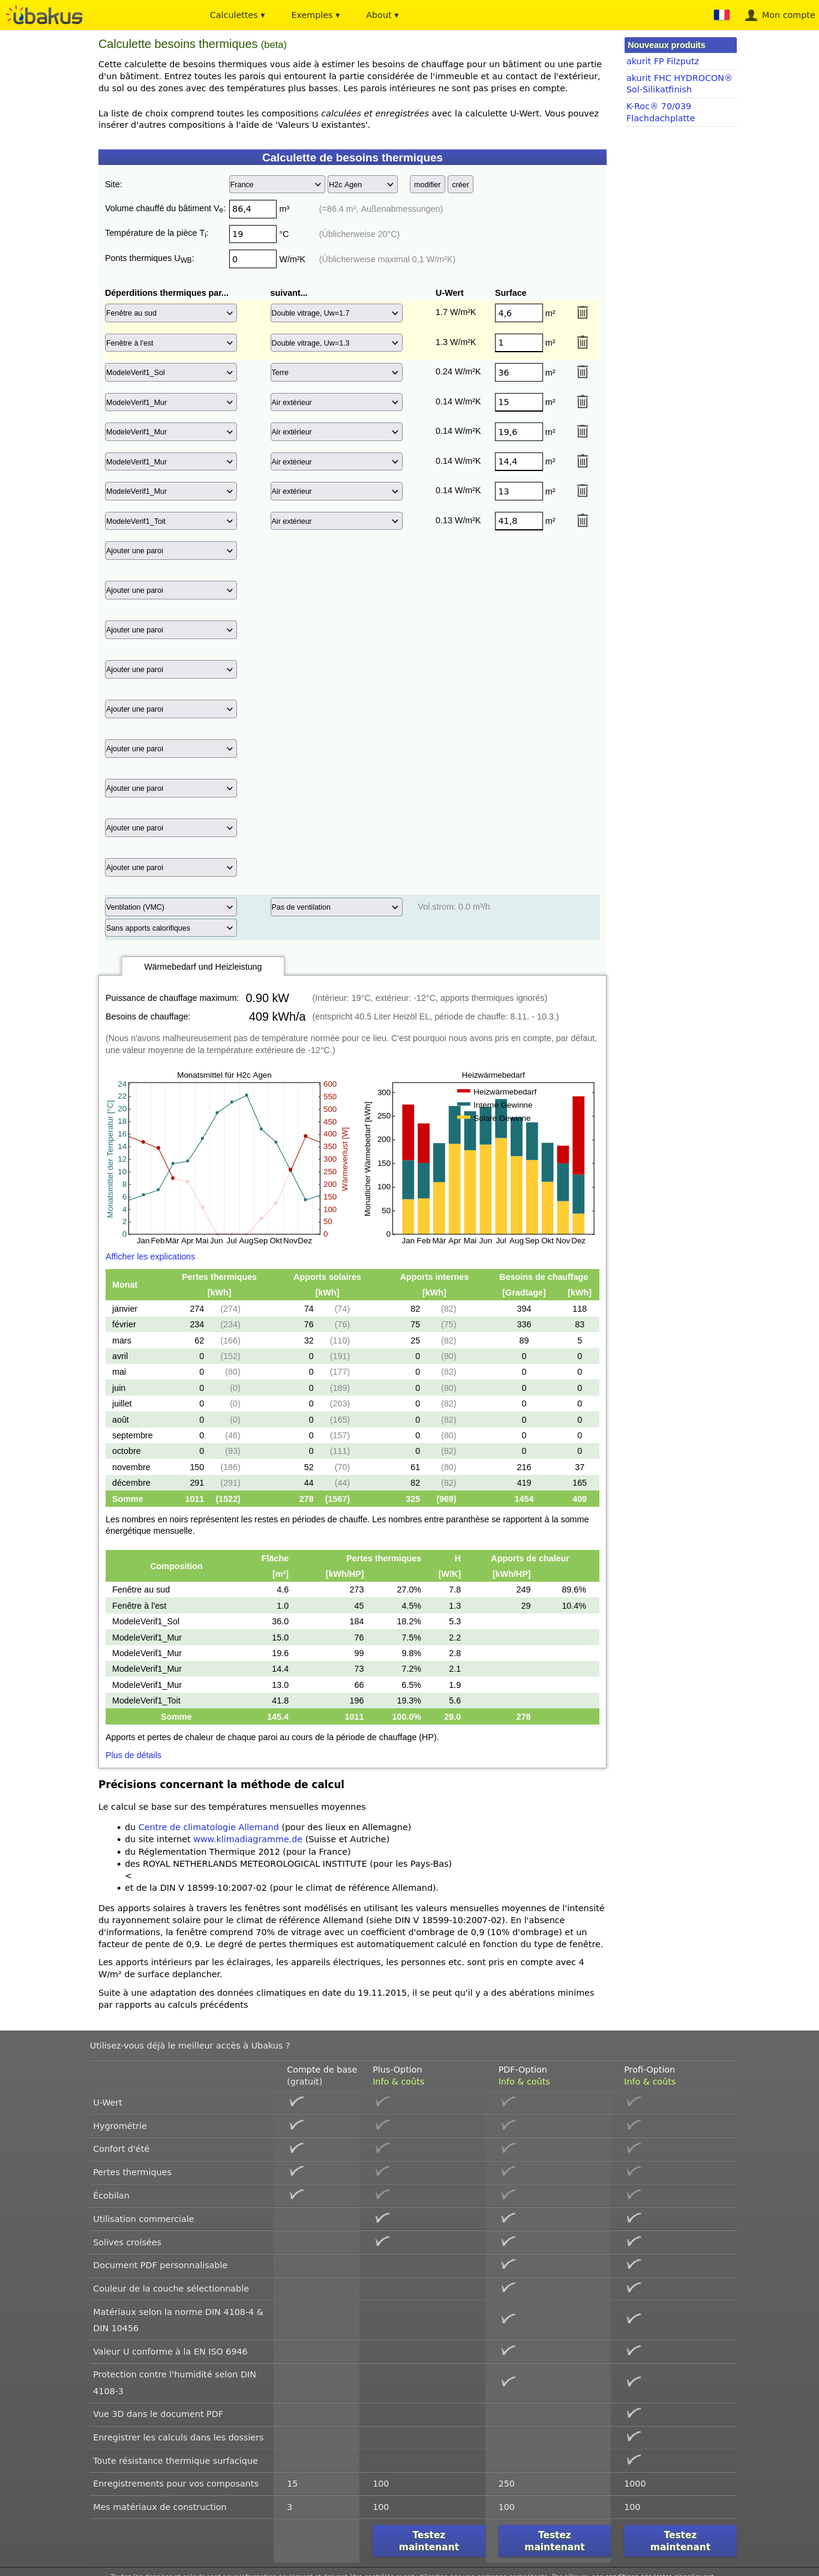
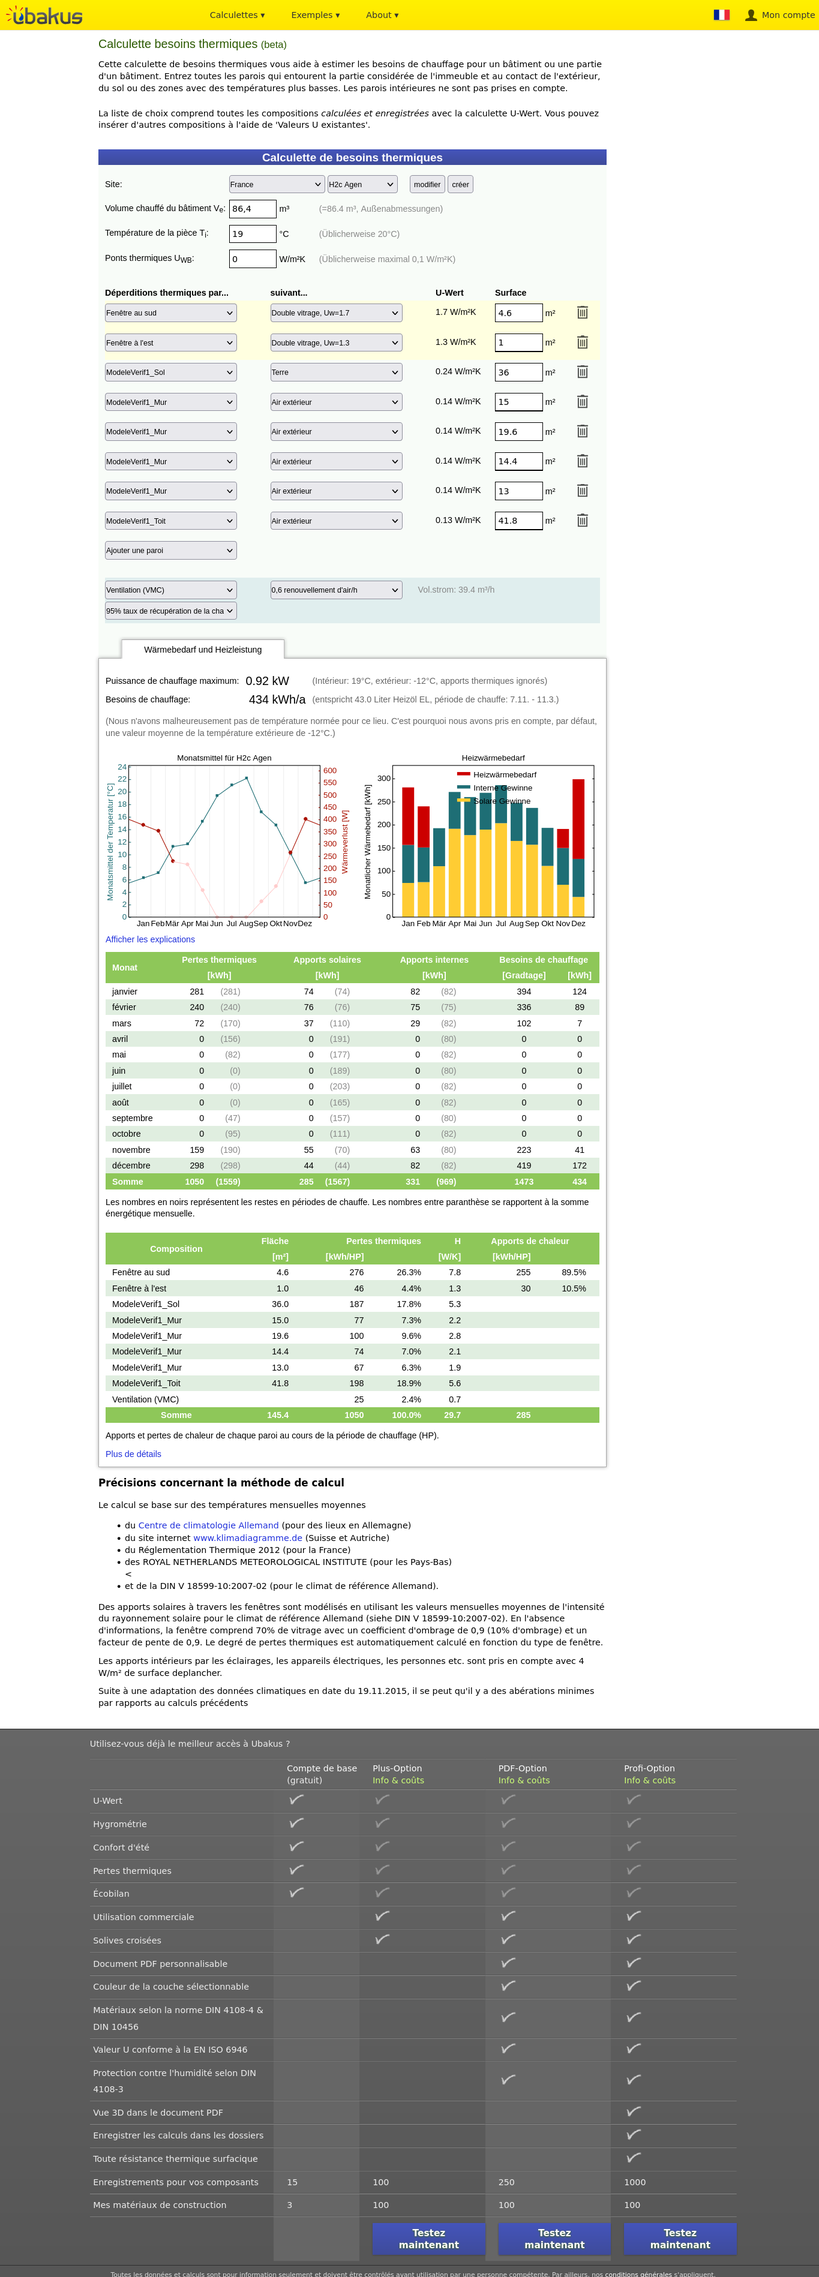
#16 Vérification - mise à jour Ubakus VMC double flux

diff --git a/doc/Modèle de vérification/2/Resultat.md b/doc/Modèle de vérification/2/Resultat.md
@@ -5,7 +5,7 @@
 Entre choisirsonpdm et 
 
 * La feuille de calcul de Damien : ?
-* Ubakus : -4%
+* Ubakus : -2,75%
 
 ## choisir.poeledemasse.org
 
@@ -100,9 +100,9 @@ Aménagement pour ce test :
 
 Comparatif : 
 
-* Avec Ubakus : 64 kW
-* Avec choisirsonpdm : 66,07 kW 
+* Avec Ubakus : 64.1 kW
+* Avec choisirsonpdm : 65.91 kW 
 
-Donc l'équivalent c'est plus : https://choisir.poeledemasse.org/#level=3&transparent=&livingspace=240&livingheight=5.4&livingvolume=1296&livingvolume_auto=&wastagesurface=&temp_indor=19&g=0.3&ubat_global=0.4&venti_global=0.2&nav-tab-record=&altitude=100&zone=a&lat=43.293900&lng=5.375652&temp_base=-12&temp_base_auto=&temp_base_years_archive=10&building-title=&wall-id=6&wall-name-1=Sol&wall-type-1=6275288188_10.50&wall-rsi-1=0.13&wall-rse-1=0&wall-surface-1=240&wall-r-1=10.50&wall-name-2=Mur%20Sud&wall-type-2=5322603544_17.90&wall-rsi-2=0.13&wall-rse-2=0.04&wall-surface-2=37.5&wall-r-2=17.90&wall-name-2-window-1=Fen%C3%AAtre%20Sud&wall-type-2-window-1=1.7&wall-surface-2-window-1=37.5&wall-name-3=Mur%20Nord&wall-type-3=5322603544_17.90&wall-rsi-3=0.13&wall-rse-3=0.04&wall-surface-3=37.5&wall-r-3=17.90&wall-name-4=Mur%20Est&wall-type-4=5322603544_17.90&wall-rsi-4=0.13&wall-rse-4=0.04&wall-surface-4=215.4&wall-r-4=17.90&wall-name-4-window-1=Fen%C3%AAtre%20Est&wall-type-4-window-1=1.7&wall-surface-4-window-1=107.7&wall-name-5=Mur%20Ouest&wall-type-5=5322603544_17.90&wall-rsi-5=0.13&wall-rse-5=0.04&wall-surface-5=215.4&wall-r-5=17.90&wall-name-6=Toiture&wall-type-6=9224610753_0.00200&wall-rsi-6=0.1&wall-rse-6=0.04&wall-surface-6=277.2&wall-r-6=0.00200&wall-name-6-window-1=V%C3%A9lux&wall-type-6-window-1=1.7&wall-surface-6-window-1=22.2&wall-custom-title=Mod%C3%A8leV%C3%A9rification2_Toit&submit_input=1&localWall-3=%7B%22title%22%3A%22Mod%C3%A8leV%C3%A9rification2_Sol%22%2C%22r%22%3A%2210.50%22%2C%22layer%22%3A%5B%7B%22idu%22%3A%2239%22%2C%22material%22%3A%22Polyur%C3%A9thane%22%2C%22lambda%22%3A%220.03%22%2C%22size%22%3A%2220%22%7D%2C%7B%22idu%22%3A%2212%22%2C%22material%22%3A%22Misapor%22%2C%22lambda%22%3A%220.08%22%2C%22size%22%3A%2230%22%7D%5D%2C%22idu%22%3A6275288188%7D&localWall-4=%7B%22title%22%3A%22Mod%C3%A8leV%C3%A9rification2_Mur%22%2C%22r%22%3A%2217.90%22%2C%22layer%22%3A%5B%7B%22idu%22%3A%2230%22%2C%22material%22%3A%22Ouate%20de%20cellulose%20panneaux%22%2C%22lambda%22%3A%220.039%22%2C%22size%22%3A%2270%22%7D%5D%2C%22idu%22%3A5322603544%7D&localWall-4=%7B%22title%22%3A%22Mod%C3%A8leV%C3%A9rification2_Mur%22%2C%22r%22%3A%2217.90%22%2C%22layer%22%3A%5B%7B%22idu%22%3A%2230%22%2C%22material%22%3A%22Ouate%20de%20cellulose%20panneaux%22%2C%22lambda%22%3A%220.039%22%2C%22size%22%3A%2270%22%7D%5D%2C%22idu%22%3A5322603544%7D&localWall-4=%7B%22title%22%3A%22Mod%C3%A8leV%C3%A9rification2_Mur%22%2C%22r%22%3A%2217.90%22%2C%22layer%22%3A%5B%7B%22idu%22%3A%2230%22%2C%22material%22%3A%22Ouate%20de%20cellulose%20panneaux%22%2C%22lambda%22%3A%220.039%22%2C%22size%22%3A%2270%22%7D%5D%2C%22idu%22%3A5322603544%7D&localWall-4=%7B%22title%22%3A%22Mod%C3%A8leV%C3%A9rification2_Mur%22%2C%22r%22%3A%2217.90%22%2C%22layer%22%3A%5B%7B%22idu%22%3A%2230%22%2C%22material%22%3A%22Ouate%20de%20cellulose%20panneaux%22%2C%22lambda%22%3A%220.039%22%2C%22size%22%3A%2270%22%7D%5D%2C%22idu%22%3A5322603544%7D&localWall-5=%7B%22title%22%3A%22Mod%C3%A8leV%C3%A9rification2_Toit%22%2C%22r%22%3A%220.00200%22%2C%22layer%22%3A%5B%7B%22idu%22%3A%221%22%2C%22material%22%3A%22Ardoise%22%2C%22lambda%22%3A%222%22%2C%22size%22%3A%220.4%22%7D%5D%2C%22idu%22%3A9224610753%7D
+Donc l'équivalent c'est plus : https://choisir.poeledemasse.org/#level=3&transparent=&livingspace=240&livingheight=5.4&livingvolume=1296&livingvolume_auto=&wastagesurface=&temp_indor=19&g=0.3&ubat_global=0.4&venti_global=0.08&nav-tab-record=&altitude=100&zone=a&lat=43.293900&lng=5.375652&temp_base=-12&temp_base_auto=&temp_base_years_archive=10&building-title=&wall-id=6&wall-name-1=Sol&wall-type-1=6275288188_10.50&wall-rsi-1=0.13&wall-rse-1=0&wall-surface-1=240&wall-r-1=10.50&wall-name-2=Mur%20Sud&wall-type-2=5322603544_17.90&wall-rsi-2=0.13&wall-rse-2=0.04&wall-surface-2=37.5&wall-r-2=17.90&wall-name-2-window-1=Fen%C3%AAtre%20Sud&wall-type-2-window-1=1.7&wall-surface-2-window-1=37.5&wall-name-3=Mur%20Nord&wall-type-3=5322603544_17.90&wall-rsi-3=0.13&wall-rse-3=0.04&wall-surface-3=37.5&wall-r-3=17.90&wall-name-4=Mur%20Est&wall-type-4=5322603544_17.90&wall-rsi-4=0.13&wall-rse-4=0.04&wall-surface-4=215.4&wall-r-4=17.90&wall-name-4-window-1=Fen%C3%AAtre%20Est&wall-type-4-window-1=1.7&wall-surface-4-window-1=107.7&wall-name-5=Mur%20Ouest&wall-type-5=5322603544_17.90&wall-rsi-5=0.13&wall-rse-5=0.04&wall-surface-5=215.4&wall-r-5=17.90&wall-name-6=Toiture&wall-type-6=9224610753_0.00200&wall-rsi-6=0.1&wall-rse-6=0.04&wall-surface-6=277.2&wall-r-6=0.00200&wall-name-6-window-1=V%C3%A9lux&wall-type-6-window-1=1.7&wall-surface-6-window-1=22.2&wall-custom-title=Mod%C3%A8leV%C3%A9rification2_Toit&submit_input=1&localWall-3=%7B%22title%22%3A%22Mod%C3%A8leV%C3%A9rification2_Sol%22%2C%22r%22%3A%2210.50%22%2C%22layer%22%3A%5B%7B%22idu%22%3A%2239%22%2C%22material%22%3A%22Polyur%C3%A9thane%22%2C%22lambda%22%3A%220.03%22%2C%22size%22%3A%2220%22%7D%2C%7B%22idu%22%3A%2212%22%2C%22material%22%3A%22Misapor%22%2C%22lambda%22%3A%220.08%22%2C%22size%22%3A%2230%22%7D%5D%2C%22idu%22%3A6275288188%7D&localWall-4=%7B%22title%22%3A%22Mod%C3%A8leV%C3%A9rification2_Mur%22%2C%22r%22%3A%2217.90%22%2C%22layer%22%3A%5B%7B%22idu%22%3A%2230%22%2C%22material%22%3A%22Ouate%20de%20cellulose%20panneaux%22%2C%22lambda%22%3A%220.039%22%2C%22size%22%3A%2270%22%7D%5D%2C%22idu%22%3A5322603544%7D&localWall-4=%7B%22title%22%3A%22Mod%C3%A8leV%C3%A9rification2_Mur%22%2C%22r%22%3A%2217.90%22%2C%22layer%22%3A%5B%7B%22idu%22%3A%2230%22%2C%22material%22%3A%22Ouate%20de%20cellulose%20panneaux%22%2C%22lambda%22%3A%220.039%22%2C%22size%22%3A%2270%22%7D%5D%2C%22idu%22%3A5322603544%7D&localWall-4=%7B%22title%22%3A%22Mod%C3%A8leV%C3%A9rification2_Mur%22%2C%22r%22%3A%2217.90%22%2C%22layer%22%3A%5B%7B%22idu%22%3A%2230%22%2C%22material%22%3A%22Ouate%20de%20cellulose%20panneaux%22%2C%22lambda%22%3A%220.039%22%2C%22size%22%3A%2270%22%7D%5D%2C%22idu%22%3A5322603544%7D&localWall-4=%7B%22title%22%3A%22Mod%C3%A8leV%C3%A9rification2_Mur%22%2C%22r%22%3A%2217.90%22%2C%22layer%22%3A%5B%7B%22idu%22%3A%2230%22%2C%22material%22%3A%22Ouate%20de%20cellulose%20panneaux%22%2C%22lambda%22%3A%220.039%22%2C%22size%22%3A%2270%22%7D%5D%2C%22idu%22%3A5322603544%7D&localWall-5=%7B%22title%22%3A%22Mod%C3%A8leV%C3%A9rification2_Toit%22%2C%22r%22%3A%220.00200%22%2C%22layer%22%3A%5B%7B%22idu%22%3A%221%22%2C%22material%22%3A%22Ardoise%22%2C%22lambda%22%3A%222%22%2C%22size%22%3A%220.4%22%7D%5D%2C%22idu%22%3A9224610753%7D
 
 ![](Resultat.assets/Screenshot 2024-07-12 at 14-07-48 ubakus.de U-Wert Rechner.png)

diff --git a/doc/Modèle de vérification/1/Resultat.md b/doc/Modèle de vérification/1/Resultat.md
@@ -5,7 +5,7 @@
 Entre choisirsonpdm et 
 
 * La feuille de calcul de Damien : +3%
-* Ubakus : -14%
+* Ubakus : -11,54 %
 
 ## choisir.poeledemasse.org
 
@@ -30,13 +30,13 @@ https://www.ubakus.de/fr/berechnung/waermebedarf/
 Aménagement pour ce test :
 
 * -12 température de Rennes (pas de possibilité de modifier sur ubakus)
-* Pas de VMC (pas trouvé comment faire double flux)
+* VMC 95%, Renouvellement 0.6
 
 Comparatif : 
 
-* Avec Ubakus : 0.9 kW
-* Avec choisirsonpdm : 1.05 kW 
+* Avec Ubakus : 0.92 kW
+* Avec choisirsonpdm : 1.04 kW 
 
-Donc l'équivalent c'est plus : https://choisir.poeledemasse.org/#level=3&transparent=&livingspace=&livingheight=&livingvolume=86&livingvolume_auto=&wastagesurface=&temp_indor=19&g=0.3&ubat_global=0.4&venti_global=0.2&nav-tab-record=&altitude=100&zone=a&lat=47.970256&lng=-1.96398&temp_base=-12&temp_base_auto=&temp_base_years_archive=10&building-title=Mod%C3%A8le%20de%20v%C3%A9rification%20N%C2%B01&wall-id=8&wall-name-1=Sol&wall-type-1=2666122145_3.80&wall-rsi-1=0.13&wall-rse-1=0&wall-surface-1=36&wall-r-1=3.80&wall-name-3=Mur%20Sud&wall-type-3=2931733730_6.70&wall-rsi-3=0.13&wall-rse-3=0.04&wall-surface-3=19.6&wall-r-3=6.70&wall-name-3-window-1=Baie%20vitr%C3%A9&wall-type-3-window-1=1.7&wall-surface-3-window-1=4.6&wall-name-4=Mur%20Nord&wall-type-4=2931733730_6.70&wall-rsi-4=0.13&wall-rse-4=0.04&wall-surface-4=19.6&wall-r-4=6.70&wall-name-5=Mur%20Est&wall-type-5=2931733730_6.70&wall-rsi-5=0.13&wall-rse-5=0.04&wall-surface-5=14.4&wall-r-5=6.70&wall-name-6=Mur%20Ouest&wall-type-6=2931733730_6.70&wall-rsi-6=0.13&wall-rse-6=0.04&wall-surface-6=14.4&wall-r-6=6.70&wall-name-6-window-1=Fen%C3%AAtre%20Ouest&wall-type-6-window-1=1.7&wall-surface-6-window-1=1&wall-name-8=Toit&wall-type-8=8219786516_7.30&wall-rsi-8=0.1&wall-rse-8=0.04&wall-surface-8=41.8&wall-r-8=7.30&wall-custom-title=Mod%C3%A8leV%C3%A9rification1_Mur&submit_input=1&localWall-0=%7B%22title%22%3A%22Mod%C3%A8leV%C3%A9rification1_Sol%22%2C%22r%22%3A%223.80%22%2C%22layer%22%3A%5B%7B%22idu%22%3A%2212%22%2C%22material%22%3A%22Misapor%22%2C%22lambda%22%3A%220.08%22%2C%22size%22%3A%2230%22%7D%5D%2C%22idu%22%3A2666122145%7D&localWall-1=%7B%22title%22%3A%22Mod%C3%A8leV%C3%A9rification1_Mur%22%2C%22r%22%3A%226.70%22%2C%22layer%22%3A%5B%7B%22idu%22%3A%2224%22%2C%22material%22%3A%22Paille%20%E2%80%93%20Botte%22%2C%22lambda%22%3A%220.052%22%2C%22size%22%3A%2235%22%7D%5D%2C%22idu%22%3A2931733730%7D&localWall-1=%7B%22title%22%3A%22Mod%C3%A8leV%C3%A9rification1_Mur%22%2C%22r%22%3A%226.70%22%2C%22layer%22%3A%5B%7B%22idu%22%3A%2224%22%2C%22material%22%3A%22Paille%20%E2%80%93%20Botte%22%2C%22lambda%22%3A%220.052%22%2C%22size%22%3A%2235%22%7D%5D%2C%22idu%22%3A2931733730%7D&localWall-1=%7B%22title%22%3A%22Mod%C3%A8leV%C3%A9rification1_Mur%22%2C%22r%22%3A%226.70%22%2C%22layer%22%3A%5B%7B%22idu%22%3A%2224%22%2C%22material%22%3A%22Paille%20%E2%80%93%20Botte%22%2C%22lambda%22%3A%220.052%22%2C%22size%22%3A%2235%22%7D%5D%2C%22idu%22%3A2931733730%7D&localWall-1=%7B%22title%22%3A%22Mod%C3%A8leV%C3%A9rification1_Mur%22%2C%22r%22%3A%226.70%22%2C%22layer%22%3A%5B%7B%22idu%22%3A%2224%22%2C%22material%22%3A%22Paille%20%E2%80%93%20Botte%22%2C%22lambda%22%3A%220.052%22%2C%22size%22%3A%2235%22%7D%5D%2C%22idu%22%3A2931733730%7D&localWall-2=%7B%22title%22%3A%22Mod%C3%A8leV%C3%A9rification1_Toit%22%2C%22r%22%3A%227.30%22%2C%22layer%22%3A%5B%7B%22idu%22%3A%2229%22%2C%22material%22%3A%22Ouate%20de%20cellulose%20souffl%C3%A9e%22%2C%22lambda%22%3A%220.041%22%2C%22size%22%3A%2230%22%7D%5D%2C%22idu%22%3A8219786516%7D
+Donc l'équivalent c'est plus : https://choisir.poeledemasse.org/#level=3&transparent=&livingspace=&livingheight=&livingvolume=86&livingvolume_auto=&wastagesurface=&temp_indor=19&g=0.3&ubat_global=0.4&venti_global=0.08&nav-tab-record=&altitude=100&zone=a&lat=47.970256&lng=-1.96398&temp_base=-12&temp_base_auto=&temp_base_years_archive=10&building-title=Mod%C3%A8le%20de%20v%C3%A9rification%20N%C2%B01&wall-id=8&wall-name-1=Sol&wall-type-1=2666122145_3.80&wall-rsi-1=0.13&wall-rse-1=0&wall-surface-1=36&wall-r-1=3.80&wall-name-3=Mur%20Sud&wall-type-3=2931733730_6.70&wall-rsi-3=0.13&wall-rse-3=0.04&wall-surface-3=19.6&wall-r-3=6.70&wall-name-3-window-1=Baie%20vitr%C3%A9&wall-type-3-window-1=1.7&wall-surface-3-window-1=4.6&wall-name-4=Mur%20Nord&wall-type-4=2931733730_6.70&wall-rsi-4=0.13&wall-rse-4=0.04&wall-surface-4=19.6&wall-r-4=6.70&wall-name-5=Mur%20Est&wall-type-5=2931733730_6.70&wall-rsi-5=0.13&wall-rse-5=0.04&wall-surface-5=14.4&wall-r-5=6.70&wall-name-6=Mur%20Ouest&wall-type-6=2931733730_6.70&wall-rsi-6=0.13&wall-rse-6=0.04&wall-surface-6=14.4&wall-r-6=6.70&wall-name-6-window-1=Fen%C3%AAtre%20Ouest&wall-type-6-window-1=1.7&wall-surface-6-window-1=1&wall-name-8=Toit&wall-type-8=8219786516_7.30&wall-rsi-8=0.1&wall-rse-8=0.04&wall-surface-8=41.8&wall-r-8=7.30&wall-custom-title=Mod%C3%A8leV%C3%A9rification1_Mur&submit_input=1&localWall-0=%7B%22title%22%3A%22Mod%C3%A8leV%C3%A9rification1_Sol%22%2C%22r%22%3A%223.80%22%2C%22layer%22%3A%5B%7B%22idu%22%3A%2212%22%2C%22material%22%3A%22Misapor%22%2C%22lambda%22%3A%220.08%22%2C%22size%22%3A%2230%22%7D%5D%2C%22idu%22%3A2666122145%7D&localWall-1=%7B%22title%22%3A%22Mod%C3%A8leV%C3%A9rification1_Mur%22%2C%22r%22%3A%226.70%22%2C%22layer%22%3A%5B%7B%22idu%22%3A%2224%22%2C%22material%22%3A%22Paille%20%E2%80%93%20Botte%22%2C%22lambda%22%3A%220.052%22%2C%22size%22%3A%2235%22%7D%5D%2C%22idu%22%3A2931733730%7D&localWall-1=%7B%22title%22%3A%22Mod%C3%A8leV%C3%A9rification1_Mur%22%2C%22r%22%3A%226.70%22%2C%22layer%22%3A%5B%7B%22idu%22%3A%2224%22%2C%22material%22%3A%22Paille%20%E2%80%93%20Botte%22%2C%22lambda%22%3A%220.052%22%2C%22size%22%3A%2235%22%7D%5D%2C%22idu%22%3A2931733730%7D&localWall-1=%7B%22title%22%3A%22Mod%C3%A8leV%C3%A9rification1_Mur%22%2C%22r%22%3A%226.70%22%2C%22layer%22%3A%5B%7B%22idu%22%3A%2224%22%2C%22material%22%3A%22Paille%20%E2%80%93%20Botte%22%2C%22lambda%22%3A%220.052%22%2C%22size%22%3A%2235%22%7D%5D%2C%22idu%22%3A2931733730%7D&localWall-1=%7B%22title%22%3A%22Mod%C3%A8leV%C3%A9rification1_Mur%22%2C%22r%22%3A%226.70%22%2C%22layer%22%3A%5B%7B%22idu%22%3A%2224%22%2C%22material%22%3A%22Paille%20%E2%80%93%20Botte%22%2C%22lambda%22%3A%220.052%22%2C%22size%22%3A%2235%22%7D%5D%2C%22idu%22%3A2931733730%7D&localWall-2=%7B%22title%22%3A%22Mod%C3%A8leV%C3%A9rification1_Toit%22%2C%22r%22%3A%227.30%22%2C%22layer%22%3A%5B%7B%22idu%22%3A%2229%22%2C%22material%22%3A%22Ouate%20de%20cellulose%20souffl%C3%A9e%22%2C%22lambda%22%3A%220.041%22%2C%22size%22%3A%2230%22%7D%5D%2C%22idu%22%3A8219786516%7D
 
 ![](Resultat.assets/ubakus-1bis.png)
